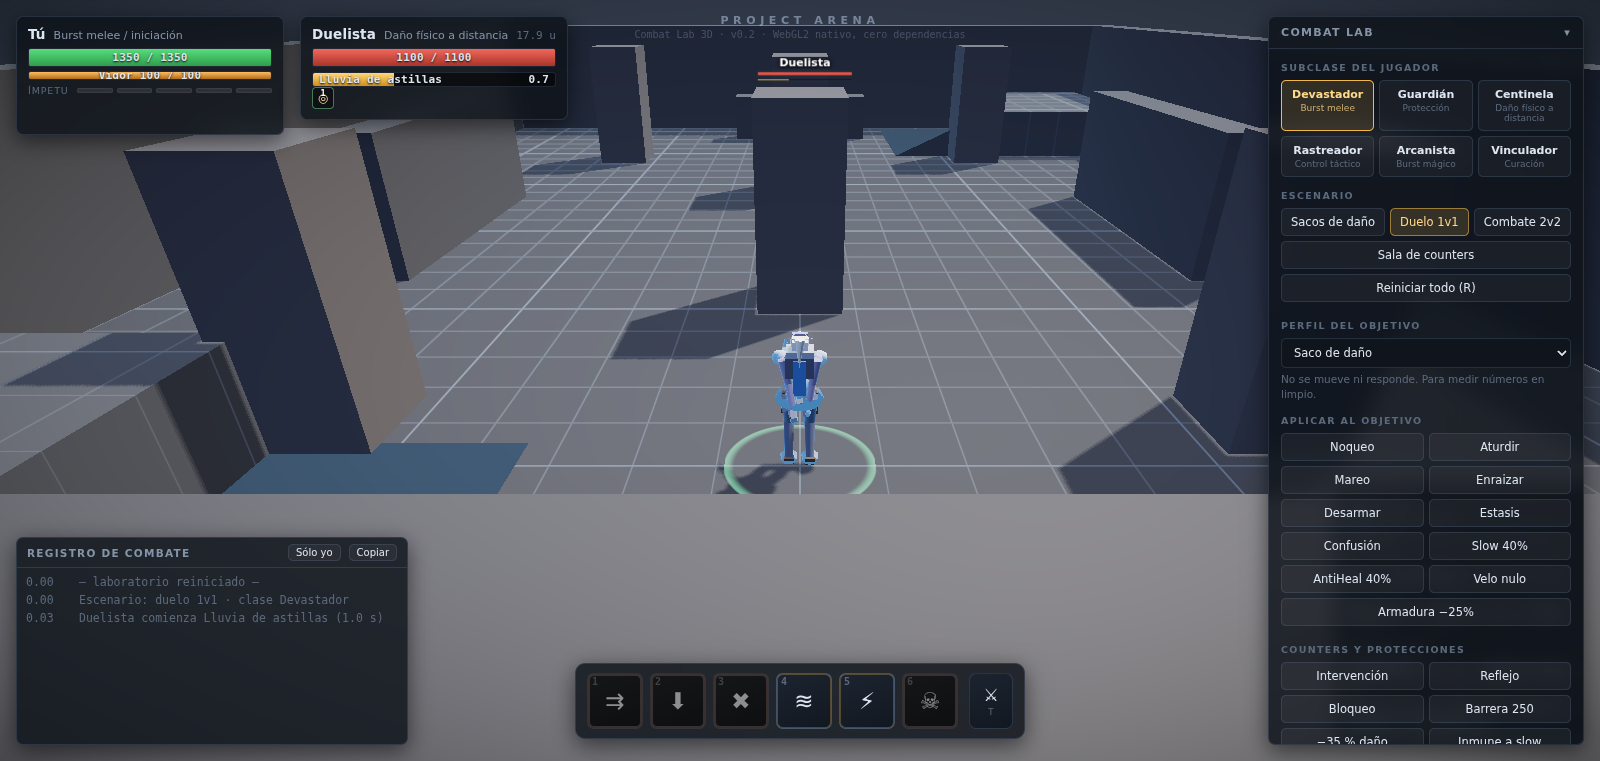
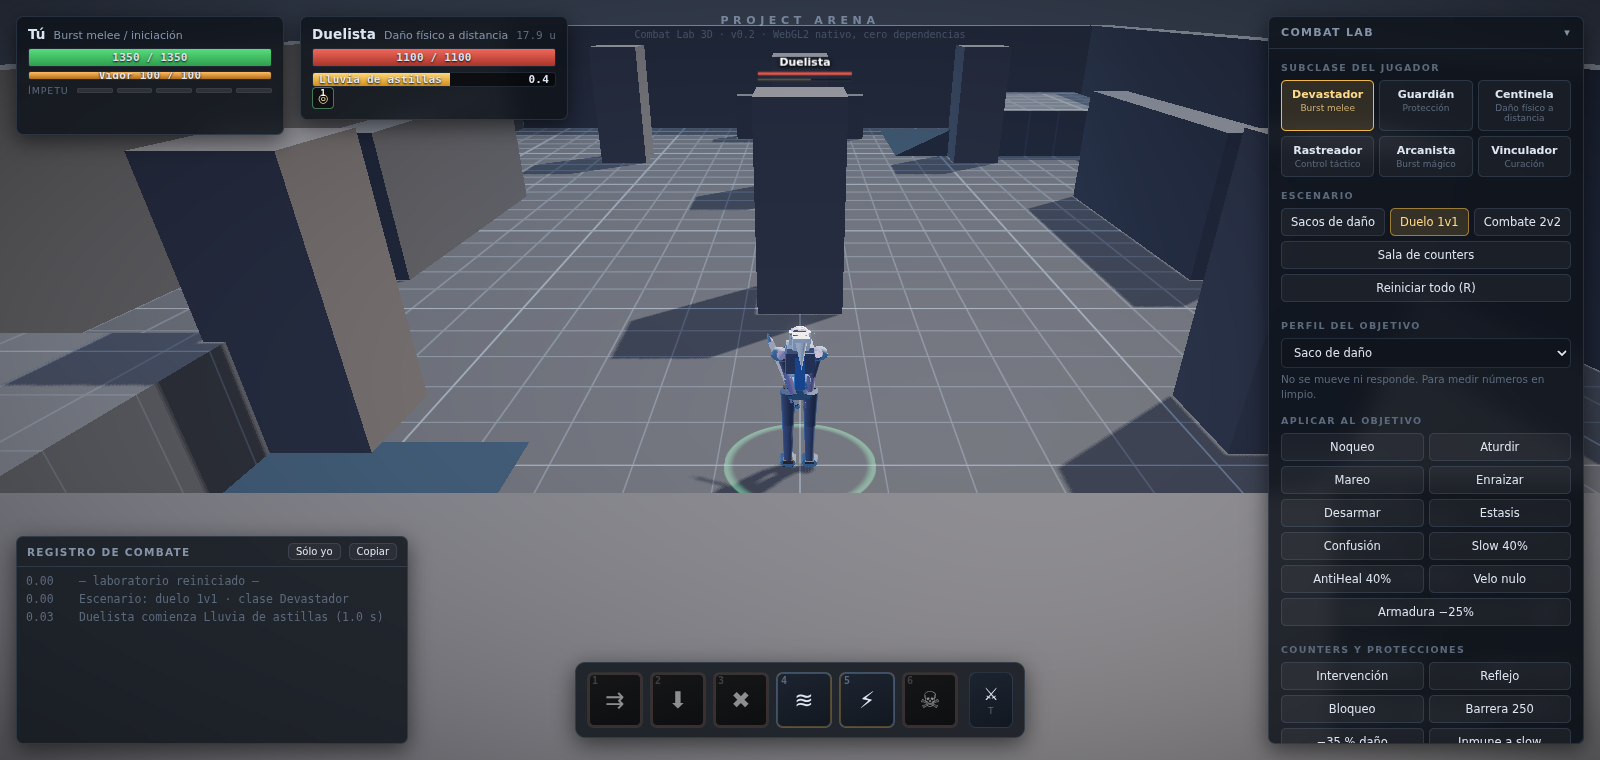
Pose de derribo tendida, atuendo por arquetipo y legibilidad del overlay
Derribo
- Un cuerpo tendido estira las piernas a lo largo del suelo. Al seguir
  persiguiendo el punto donde estaban los pies de pie, el personaje se plegaba
  sobre sí mismo y el derribo se leía como un ovillo. Ahora el objetivo de IK se
  mezcla hacia la prolongación del cuerpo cuando el control es de suelo, y el
  personaje cae cuan largo es.

Mago
- La túnica cubre el tronco y llega al suelo, con los pies asomando por debajo.
  Antes la caja torácica quedaba a la vista como un panel plano sobre la campana
  de tela, y sin pies visibles el mago se desplazaba como un cono deslizándose:
  ni un fotograma decía que estuviera caminando.
- Capucha con caída hacia atrás en vez del cucurucho vertical que lo convertía
  en un sombrero de bruja; báculo vertical y separado del cuerpo para que la
  gema se vea.

Detalle de modelo
- Coleta con volumen: un cono de siete caras se leía como una cartulina.

Depuración
- El overlay de F3 baja su emisión por debajo del umbral de bloom. Con emisión
  alta se convertía en una columna blanca que tapaba justo al personaje que se
  estaba depurando.

Verificación: 116 pruebas en verde, arranque limpio y 25 s de partida real en
los escenarios de duelo, 2v2 y sala de counters sin un solo error de consola.

diff --git a/js/render/characterVisual.js b/js/render/characterVisual.js
@@ -128,7 +128,12 @@ Arena.define('render/characterVisual',
         P.translate(P.scale(P.box(0.045, 0.170, 0.080), 1, 1, 1), -0.108, -0.030, 0.028),
         P.translate(P.scale(P.box(0.045, 0.170, 0.080), 1, 1, 1), 0.108, -0.030, 0.028)
       ]),
-      hairTail: P.translate(P.scale(P.cone(0.072, 0.34, 7), 1, -1, 1), 0, 0.03, -0.150),
+      // Coleta con volumen: un cono de 7 caras a esta escala se lee como una
+      // cartulina blanca pegada a la nuca.
+      hairTail: P.merge([
+        P.translate(P.scale(P.sphere(0.5, 7, 10), 0.135, 0.115, 0.135), 0, -0.020, -0.155),
+        P.translate(P.scale(P.cone(0.070, 0.30, 10), 1, -1, 0.92), 0, -0.060, -0.170)
+      ]),
 
       /* --- Extremidades: dos segmentos + articulación -------------------- */
       upperArm: bone(0.064, 0.050, UPPER_ARM, 9),
@@ -179,7 +184,17 @@ Arena.define('render/characterVisual',
       ]),
       strap: P.translate(P.scale(P.box(0.062, 0.44, 0.030), 1, 1, 1), 0, -0.02, 0),
       sash: P.translate(P.scale(P.cylinder(0.255, 0.085, 14, 1.0), 1, 1, 0.86), 0, -0.04, 0),
-      stole: P.translate(P.scale(P.box(0.085, 0.52, 0.040), 1, 1, 1), 0, -0.24, 0),
+      stole: P.translate(P.scale(P.box(0.062, 0.46, 0.034), 1, 1, 1), 0, -0.21, 0),
+      // Cuerpo de la túnica: cubre el tronco y enlaza con la falda. Sin él, la
+      // caja torácica quedaba a la vista como un panel plano encima de la
+      // campana de tela, y el mago parecía dos objetos apilados.
+      // Se ensancha HACIA ARRIBA, de la cintura a los hombros, y termina ahí:
+      // la malla se construye de y=0 a y=h, así que el radio base es el de la
+      // cintura y `taper` es cuánto abre en el pecho.
+      robeBodice: P.merge([
+        P.scale(P.cylinder(0.150, 0.40, 14, 1.42), 1, 1, 0.86),
+        P.translate(P.scale(P.sphere(0.5, 8, 11), 0.40, 0.20, 0.30), 0, 0.375, 0)
+      ]),
       // El cinturón ciñe la cadera: su radio sale del ancho de la pelvis (0.35
       // de diámetro), no de un número al azar. Con 0.285 era un disco más ancho
       // que el propio cuerpo y se leía como un tutú.
@@ -199,8 +214,8 @@ Arena.define('render/characterVisual',
       bracer: P.translate(P.cylinder(0.060, 0.15, 8, 1), 0, -LOWER_ARM * 0.85, 0),
       /* La túnica llega al SUELO. Flotando a 17 cm, el mago se leía como una
          pieza de ajedrez sobre un pedestal invisible. */
-      robe: P.translate(P.cylinder(0.335, 1.12, 18, 0.42), 0, -1.12, 0),
-      robeTrim: P.translate(P.cylinder(0.342, 0.055, 18, 1), 0, -1.12, 0),
+      robe: P.translate(P.cylinder(0.290, 1.10, 18, 0.50), 0, -1.10, 0),
+      robeTrim: P.translate(P.cylinder(0.297, 0.050, 18, 1), 0, -1.10, 0),
       /* Capucha: pico caído hacia ATRÁS, no un cucurucho vertical. El cono
          apuntando al cielo convertía al arcanista en un sombrero de bruja. */
       hood: P.merge([
@@ -301,7 +316,7 @@ Arena.define('render/characterVisual',
 
     belt: 'LEATHER', skirtPanel: 'LEATHER', bracer: 'LEATHER', foot: 'LEATHER',
     bowString: 'LEATHER', strap: 'LEATHER', quiver: 'LEATHER', shoulderCap: 'LEATHER',
-    sash: 'CLOTH', stole: 'CLOTH', quiverArrows: 'WOOD',
+    sash: 'CLOTH', stole: 'CLOTH', robeBodice: 'CLOTH', quiverArrows: 'WOOD',
 
     pauldron: 'METAL', collar: 'METAL', chestPlate: 'METAL', buckle: 'METAL',
     thighGuard: 'METAL', kneeGuard: 'METAL', bootCuff: 'METAL', robeTrim: 'METAL',
@@ -325,7 +340,7 @@ Arena.define('render/characterVisual',
       trim: [0.66, 0.53, 0.28], leather: [0.185, 0.135, 0.090], wood: [0.30, 0.22, 0.14]
     },
     robe: {
-      cloth: [0.285, 0.042, 0.062], metal: [0.275, 0.225, 0.170],
+      cloth: [0.205, 0.034, 0.052], metal: [0.275, 0.225, 0.170],
       trim: [0.90, 0.74, 0.34], leather: [0.155, 0.115, 0.095], wood: [0.28, 0.22, 0.18]
     }
   };
@@ -467,6 +482,10 @@ Arena.define('render/characterVisual',
     var ccW = st.ccBlend;
     var cc = st.cc;
     var ccPitch = 0, ccRoll = 0, ccLift = 0, ccKnee = 0, ccArm = 0, ccHead = 0;
+    // Un cuerpo TENDIDO estira las piernas a lo largo del suelo. Si siguen
+    // persiguiendo el punto donde estaban los pies de pie, el personaje se
+    // pliega sobre sí mismo y el derribo parece un ovillo, no una caída.
+    var ccProne = (cc && cc.rootPitch > 0.8) ? ccW : 0;
     if (cc && ccW > 0.001) {
       // El tambaleo del aturdimiento es un ciclo lento propio, no ruido.
       var sway = cc.sway ? Math.sin(st.ccTime * 4.3) * 0.09 * cc.sway : 0;
@@ -584,7 +603,8 @@ Arena.define('render/characterVisual',
       draw(quiverM, 'quiver', palette.leather);
       draw(node(quiverM, 0, 0.02, 0), 'quiverArrows', [0.58, 0.47, 0.32]);
     } else {
-      draw(node(chest, 0, 0.28, 0.020), 'stole', teamCol);
+      draw(node(chest, 0, -0.16, 0), 'robeBodice', cloth);
+      draw(node(chest, 0, 0.24, 0.098), 'stole', teamCol);
     }
 
     /* --- Cabeza ----------------------------------------------------------- */
@@ -603,7 +623,7 @@ Arena.define('render/characterVisual',
 
     if (!loadout.hood) {
       draw(node(head, 0, 0.012, -0.005), 'hairCap', hair);
-      draw(node(head, 0, 0.02, 0, 0.20, 0, 0), 'hairTail', hair);
+      draw(node(head, 0, 0.010, 0, 0.42, 0, 0), 'hairTail', hair);
     }
 
     var el = feat.earLength;
@@ -620,12 +640,14 @@ Arena.define('render/characterVisual',
     if (loadout.hood) draw(node(head, 0, -0.01, -0.02, 0.10, 0, 0), 'hood', cloth);
 
     /* --- Piernas con rodilla y tobillo ------------------------------------ */
-    if (loadout.outfit === 'robe') {
+    var robed = loadout.outfit === 'robe';
+    if (robed) {
       var swayR = lc.leanF * 0.3 + Math.sin(lc.cycle * Math.PI * 2) * 0.09 * lc.moveSpeed;
       var robeM = node(hips, 0, 0.06, 0, swayR, 0, lc.torsoRoll * 0.5);
       draw(robeM, 'robe', cloth);
       draw(robeM, 'robeTrim', trim);
-    } else {
+    }
+    {
       /* PIERNAS POR CINEMÁTICA INVERSA.
        *
        * El controlador ya decidió DÓNDE está cada pie en el mundo, y mientras
@@ -652,9 +674,30 @@ Arena.define('render/characterVisual',
         var hipOrigin = { x: hipLocalX, y: hipY - HIP_SOCKET, z: 0 };
         var footTarget = { x: lx, y: leg.footPos.y + ANKLE_HEIGHT, z: lz };
 
+        if (ccProne > 0) {
+          // Objetivo "tendido": pierna extendida en la prolongación del cuerpo.
+          // Como la raíz ya está girada hacia el suelo, extender hacia abajo en
+          // espacio local ES tumbarse cuan largo es.
+          var flatY = hipOrigin.y - (thighLen + shinLen) * 0.97;
+          footTarget.x += (hipLocalX * 1.35 - footTarget.x) * ccProne;
+          footTarget.y += (flatY - footTarget.y) * ccProne;
+          footTarget.z += (0 - footTarget.z) * ccProne;
+        }
+
         var ik = SK.solveTwoBoneIK(hipOrigin, footTarget, thighLen, shinLen, st._ik);
 
         var thighM = node(hips, hipLocalX - hipX, -HIP_SOCKET, 0, ik.pitch, 0, ik.roll, 1, lb, 1);
+        var kneeM, ankleM, toe;
+        if (robed) {
+          /* Bajo la túnica no se ve la pierna, pero los PIES SÍ asoman, y por
+             eso siguen resolviéndose por IK. Sin ellos el mago se desplaza como
+             un cono deslizándose: no hay ni un fotograma que diga que camina. */
+          kneeM = node(thighM, 0, -THIGH, 0, ik.bend, 0, 0);
+          toe = (1 - leg.plantWeight) * 0.35;
+          ankleM = node(kneeM, 0, -SHIN, 0, -ik.pitch - ik.bend + toe, 0, -ik.roll);
+          draw(ankleM, 'foot', palette.leather);
+          continue;
+        }
         draw(thighM, 'thigh', cloth);
         // Faldón partido: cada mitad sigue a su muslo, así el paso lo abre en
         // vez de atravesarlo. Un faldón rígido delata la pieza como decorado.
@@ -663,14 +706,14 @@ Arena.define('render/characterVisual',
             'skirtPanel', palette.leather);
           draw(node(thighM, 0, -0.10, 0.012, 0, 0, 0), 'thighGuard', metal);
         }
-        var kneeM = node(thighM, 0, -THIGH, 0, ik.bend, 0, 0);
+        kneeM = node(thighM, 0, -THIGH, 0, ik.bend, 0, 0);
         draw(kneeM, 'knee', cloth);
         draw(kneeM, 'shin', cloth);
         if (loadout.outfit === 'plate') draw(node(kneeM, 0, -0.02, 0.028), 'kneeGuard', metal);
         // El tobillo cancela cadera y rodilla: el pie queda plano en el suelo
         // durante el apoyo y sólo se inclina en el vuelo.
-        var toe = (1 - leg.plantWeight) * 0.35;
-        var ankleM = node(kneeM, 0, -SHIN, 0, -ik.pitch - ik.bend + toe, 0, -ik.roll);
+        toe = (1 - leg.plantWeight) * 0.35;
+        ankleM = node(kneeM, 0, -SHIN, 0, -ik.pitch - ik.bend + toe, 0, -ik.roll);
         draw(ankleM, 'foot', palette.leather);
         draw(node(ankleM, 0, 0.012, -0.03), 'bootCuff',
           loadout.outfit === 'plate' ? steel : palette.leather);

diff --git a/js/render/animDebug.js b/js/render/animDebug.js
@@ -40,13 +40,17 @@ Arena.define('render/animDebug',
     stride:   [0.55, 0.55, 0.65]
   };
 
+  /* El overlay tiene que LEERSE, no deslumbrar. Con emisión por encima de 1 el
+     bloom lo convertía en una columna blanca que tapaba justo al personaje que
+     se está depurando. */
   function push(out, mesh, matrix, color, glow) {
+    var g = (glow === undefined ? 1 : glow) * 0.34;
     out.push({
       mesh: mesh, matrix: matrix, castShadow: false,
       mat: {
-        color: color,
-        emissive: [color[0] * (glow || 2.2), color[1] * (glow || 2.2), color[2] * (glow || 2.2)],
-        roughness: 0.4, metallic: 0, alpha: 1, rimPower: 1.0, rimColor: color
+        color: [color[0] * 0.35, color[1] * 0.35, color[2] * 0.35],
+        emissive: [color[0] * g, color[1] * g, color[2] * g],
+        roughness: 0.6, metallic: 0, alpha: 1, rimPower: 3.0, rimColor: [0, 0, 0]
       }
     });
   }
@@ -71,7 +75,7 @@ Arena.define('render/animDebug',
     var pitch = Math.atan2(horiz, dy);
     var m = M.create();
     M.composeFull(m, p0, yaw, pitch, 0, { x: w, y: len, z: w });
-    push(out, 'unitBoxY', m, color, 2.6);
+    push(out, 'unitBoxY', m, color, 1.1);
   }
 
   /* =========================================================================
@@ -100,7 +104,7 @@ Arena.define('render/animDebug',
       var leg = lc.legs[i];
       var locked = leg.hasLock && leg.plantWeight > 0.5;
       var col = locked ? COLOR.footLock : COLOR.footFree;
-      marker(out, leg.footPos.x, baseY + leg.footPos.y + 0.02, leg.footPos.z, 0.055, col, 3.0);
+      marker(out, leg.footPos.x, baseY + leg.footPos.y + 0.02, leg.footPos.z, 0.042, col, 1.6);
 
       // Cruz en el suelo bajo el objetivo: deja ver el deslizamiento de un
       // vistazo. Si un pie anclado se desplaza, la cruz se arrastra.
@@ -111,7 +115,7 @@ Arena.define('render/animDebug',
 
       // Punto de anclaje real, si lo hay: debe coincidir con el objetivo.
       if (leg.hasLock) {
-        marker(out, leg.lock.x, baseY + 0.030, leg.lock.z, 0.032, COLOR.footLock, 4.0);
+        marker(out, leg.lock.x, baseY + 0.030, leg.lock.z, 0.026, COLOR.footLock, 2.0);
       }
     }
 
@@ -125,7 +129,7 @@ Arena.define('render/animDebug',
     var comX = pos.x + cy * lc.hipShiftX;
     var comZ = pos.z - sy * lc.hipShiftX;
     var comY = baseY + (0.96 + lc.hipHeight) * 1.0;
-    marker(out, comX, comY, comZ, 0.055, COLOR.com, 3.2);
+    marker(out, comX, comY, comZ, 0.045, COLOR.com, 1.6);
     // Plomada: dónde cae el peso respecto a la base de apoyo.
     segment(out, { x: comX, y: baseY + 0.01, z: comZ }, { x: comX, y: comY, z: comZ },
       0.008, COLOR.com);
